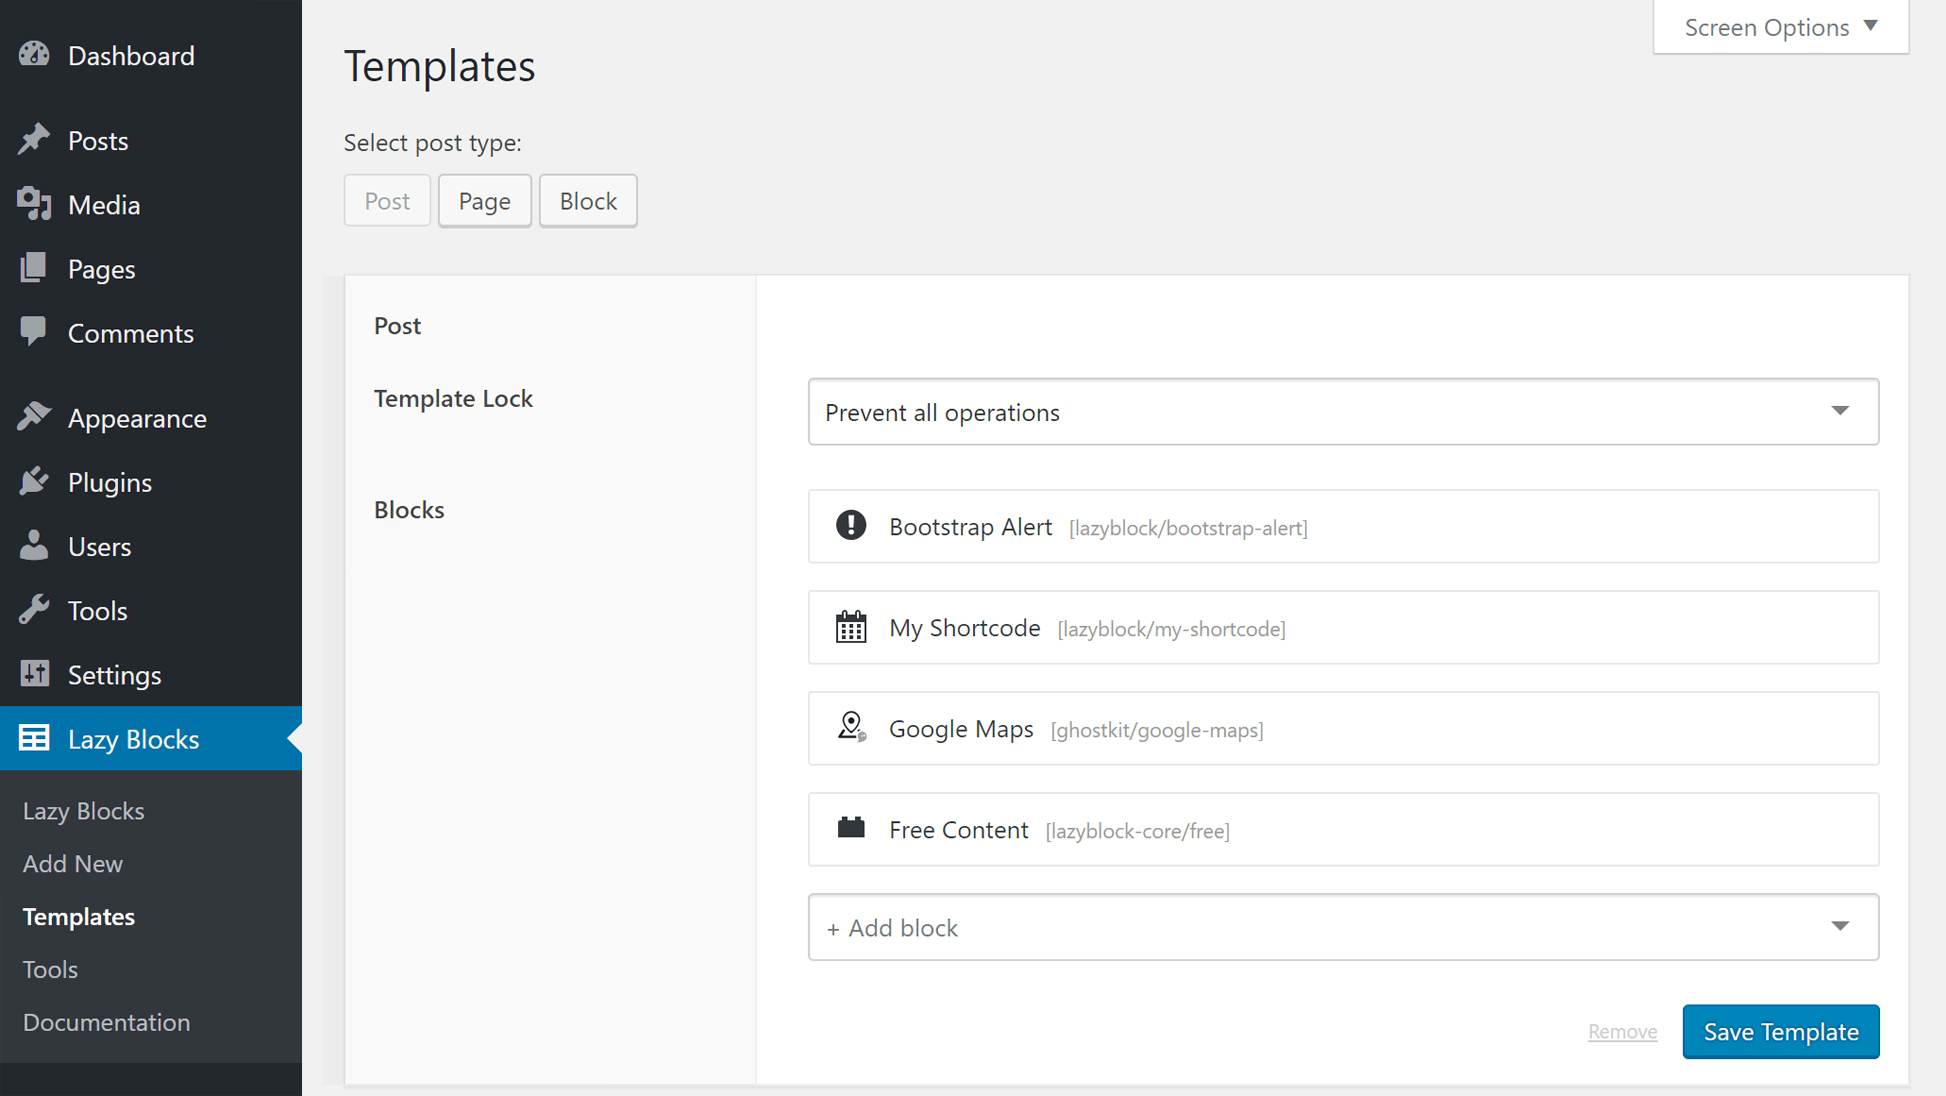
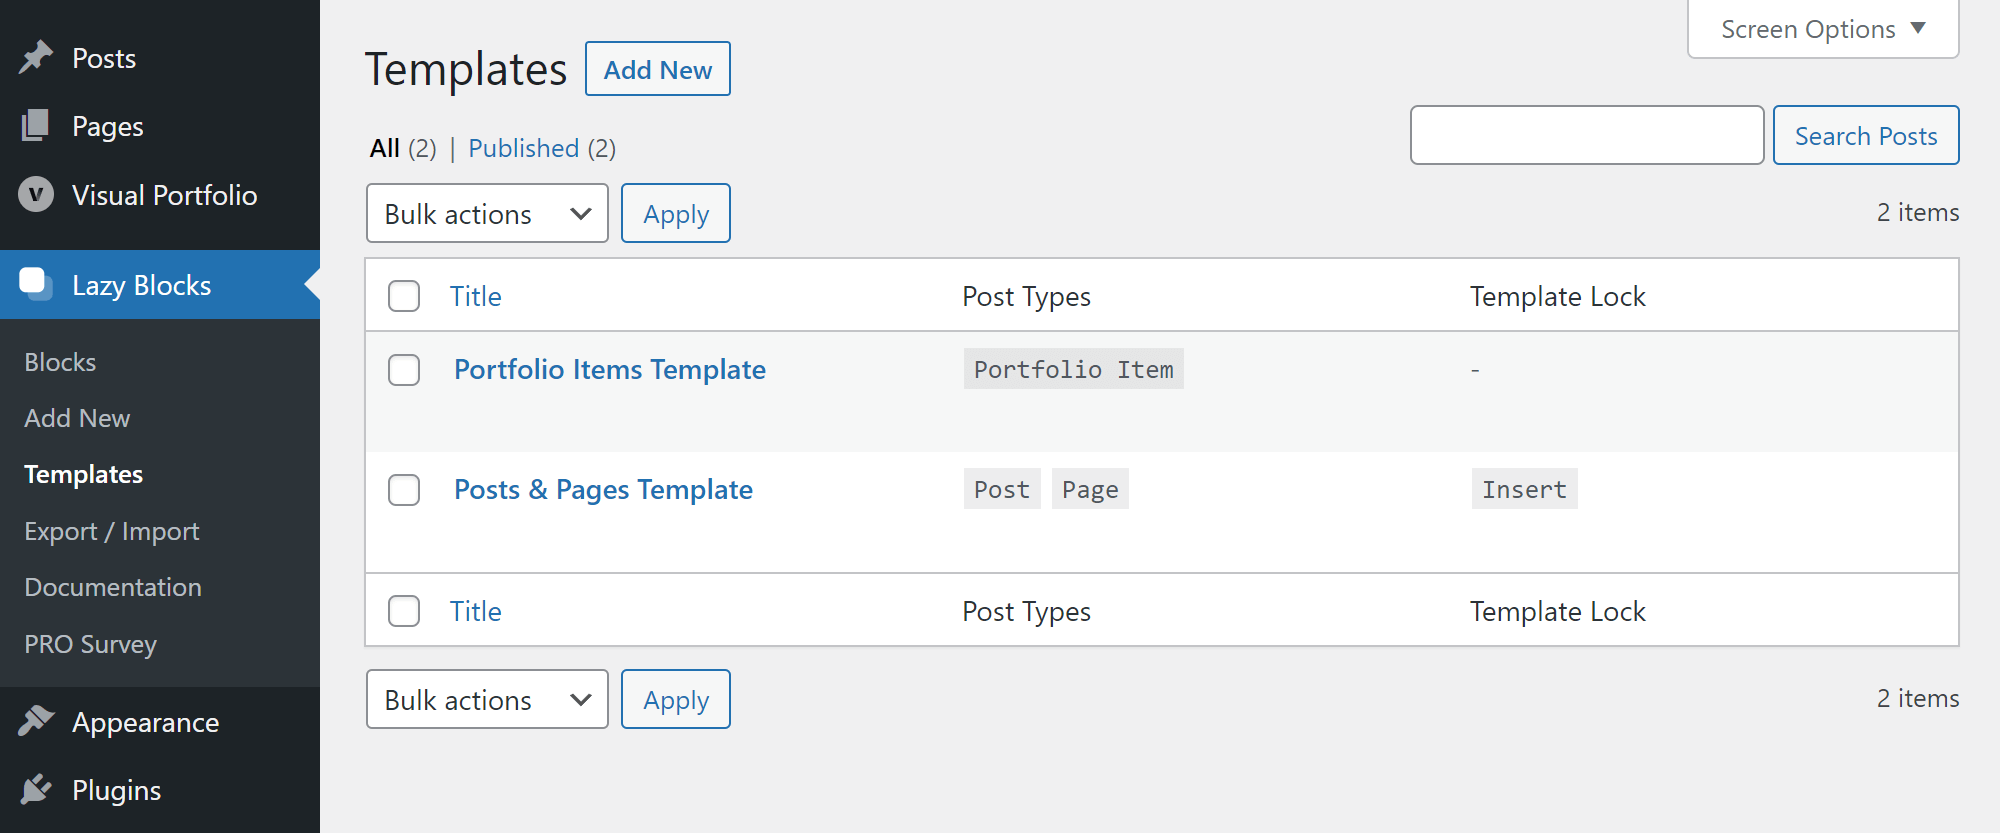
v2.5.0

diff --git a/src/readme.md b/src/readme.md
@@ -102,6 +102,14 @@ The manual installation method involves downloading our Lazy Blocks plugin and u
 
 ## Changelog
 
+= 2.5.0 =
+
+* improved Templates editor (now you can use Gutenberg editor and insert full-featured blocks)
+* fixed `get_lzb_meta` output of array and object values
+* fixed Constructor screen title click in WP 5.9
+* fixed long block names word wrap in export page
+* fixed Color Picker control styles in editor
+
 = 2.4.3 =
 
 * changed post types list limit in the templates editor ()
